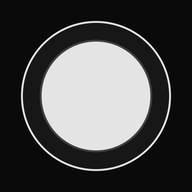
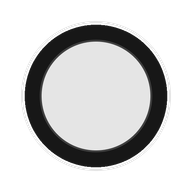
Switch to Host Grotesk, full-width layout, and refine hero
Replace Geist Sans with Host Grotesk (Geist Mono stays for code) and update
the typography section of design.md. Drop the 1288px max-width in favour of a
page-gutter utility so the header, hero, and mosaic span the viewport.

Hero: larger headline, 18px nav, 16px buttons with lucide icons after the
label, right column pinned to the end, and a zoomed, desaturated profile photo
with 3px borders aligned to the headline baseline. Regenerate the favicon and
app icons with a transparent background.

diff --git a/src/components/home/hero.tsx b/src/components/home/hero.tsx
@@ -1,10 +1,11 @@
+import { ArrowRight } from "lucide-react";
 import Image from "next/image";
 import Link from "next/link";
 import { Button } from "@/components/ui/button";
 
 export function Hero() {
   return (
-    <section className="mx-auto w-full max-w-322 px-6 pt-12 lg:pt-16">
+    <section className="page-gutter w-full pt-12 lg:pt-16">
       {/* Same column template as the mosaic so the copy lines up with its third column. */}
       <div className="grid gap-8 lg:grid-cols-[428fr_370fr_423fr] lg:items-end lg:gap-x-3">
         <div className="lg:col-span-2">
@@ -13,38 +14,41 @@ export function Hero() {
             className="inline-flex items-center gap-1.5 rounded-sm bg-surface px-2 py-0.5 text-[11px] font-medium text-text outline-none transition-colors hover:bg-border focus-visible:outline-2 focus-visible:outline-offset-2 focus-visible:outline-text"
           >
             New component
-            <span aria-hidden>→</span>
+            <ArrowRight aria-hidden className="size-3" />
           </Link>
 
-          <h1 className="mt-1.5 text-[2.5rem] leading-[1.05] font-bold text-text sm:text-5xl">
+          <h1 className="mt-1.5 text-[2.75rem] leading-[1.05] font-bold text-text sm:text-[3.5rem]">
             <span className="block">Own every Pixel of</span>
             <span className="block">
               your <span className="text-text-secondary">Design System</span>
-              <span aria-hidden className="ml-4 inline-flex translate-y-1.5 items-center align-middle">
-                <Image
-                  src="/assets/images/profile.webp"
-                  alt=""
-                  width={50}
-                  height={50}
-                  className="relative z-10 size-12.5 rounded-full border-2 border-bg object-cover"
-                />
+              <span aria-hidden className="ml-4 inline-flex">
+                {/* Photo is scaled up around the face (about 38% down) so it fills the circle. */}
+                <span className="relative z-10 size-14 overflow-hidden rounded-full border-3 border-text">
+                  <Image
+                    src="/assets/images/profile.webp"
+                    alt=""
+                    width={112}
+                    height={112}
+                    className="size-full origin-[50%_38%] translate-y-[12%] scale-150 object-cover saturate-20"
+                  />
+                </span>
                 <Image
                   src="/assets/images/claude-ai-icon.webp"
                   alt=""
-                  width={50}
-                  height={50}
-                  className="-ml-6 size-12.5 rounded-full border-2 border-bg object-cover"
+                  width={56}
+                  height={56}
+                  className="-ml-10 size-14 rounded-full border-3 border-text object-cover"
                 />
               </span>
             </span>
           </h1>
         </div>
 
-        <div>
+        <div className="w-full max-w-105 lg:justify-self-end">
           <p className="text-lg leading-snug text-text">
-            Every component ships fully styled. Swap in your own tokens
-            {" { color, type, radius, … } "}
-            and the whole library follows, in minutes, not weeks.
+            Every component ships fully styled. Swap in your own tokens{" "}
+            <span className="whitespace-nowrap">{"{ color, type, radius, … }"}</span> and the whole
+            library follows, in minutes, not weeks.
           </p>
           <div className="mt-6 flex flex-wrap gap-4">
             <Button render={<Link href="/docs" />} nativeButton={false}>

diff --git a/src/components/site-header.tsx b/src/components/site-header.tsx
@@ -1,3 +1,4 @@
+import { Star } from "lucide-react";
 import Image from "next/image";
 import Link from "next/link";
 import { Button } from "@/components/ui/button";
@@ -6,7 +7,7 @@ import { GITHUB_URL, NAV_LINKS } from "@/lib/site";
 export function SiteHeader() {
   return (
     <header className="border-b border-border">
-      <div className="mx-auto grid w-full max-w-322 grid-cols-[1fr_auto] items-center gap-y-3 px-6 py-5 md:h-22 md:grid-cols-[1fr_auto_1fr] md:py-0">
+      <div className="page-gutter grid w-full grid-cols-[1fr_auto] items-center gap-y-3 py-5 lg:h-22 lg:grid-cols-[1fr_auto_1fr] lg:py-0">
         <Link
           href="/"
           aria-label="NSDEV UI home"
@@ -24,9 +25,9 @@ export function SiteHeader() {
 
         <nav
           aria-label="Main"
-          className="order-last col-span-2 -mx-1 overflow-x-auto md:order-0 md:col-span-1 md:mx-0 md:overflow-visible"
+          className="order-last col-span-2 -mx-1 overflow-x-auto lg:order-0 lg:col-span-1 lg:mx-0 lg:overflow-visible"
         >
-          <ul className="flex items-center gap-1 text-[15px] font-medium">
+          <ul className="flex items-center gap-1 text-lg font-medium">
             {NAV_LINKS.map(({ href, label }) => (
               <li key={href}>
                 <Link
@@ -45,10 +46,8 @@ export function SiteHeader() {
           nativeButton={false}
           className="justify-self-end"
         >
-          <svg aria-hidden viewBox="0 0 24 24" className="size-3.5 fill-current">
-            <path d="M12 2.5l2.92 5.92 6.53.95-4.72 4.6 1.11 6.5L12 17.4l-5.84 3.07 1.11-6.5-4.72-4.6 6.53-.95L12 2.5z" />
-          </svg>
           Give us a star
+          <Star aria-hidden className="size-4 fill-current" />
         </Button>
       </div>
     </header>

diff --git a/src/components/home/mosaic.tsx b/src/components/home/mosaic.tsx
@@ -8,24 +8,23 @@ const columns: string[][] = [
 
 export function Mosaic() {
   return (
-    <section
-      aria-hidden
-      className="relative mx-auto mt-12 w-full max-w-322 px-6 lg:mt-14"
-    >
-      <div className="grid grid-cols-1 gap-3 sm:grid-cols-2 lg:grid-cols-[428fr_370fr_423fr]">
-        {columns.map((tiles, i) => (
-          <div key={i} className="contents lg:flex lg:flex-col lg:gap-3">
-            {tiles.map((height, j) => (
-              <div
-                key={j}
-                className={`h-44 rounded-lg border-2 border-border bg-surface sm:h-52 ${height}`}
-              />
-            ))}
-          </div>
-        ))}
+    <section aria-hidden className="page-gutter mt-12 w-full lg:mt-14">
+      <div className="relative">
+        <div className="grid grid-cols-1 gap-3 sm:grid-cols-2 lg:grid-cols-[428fr_370fr_423fr]">
+          {columns.map((tiles, i) => (
+            <div key={i} className="contents lg:flex lg:flex-col lg:gap-3">
+              {tiles.map((height, j) => (
+                <div
+                  key={j}
+                  className={`h-44 rounded-lg border-2 border-border bg-surface sm:h-52 ${height}`}
+                />
+              ))}
+            </div>
+          ))}
+        </div>
+        {/* Fades the last row into the page background. */}
+        <div className="pointer-events-none absolute inset-x-0 bottom-0 h-32 bg-linear-to-t from-bg to-transparent" />
       </div>
-      {/* Fades the last row into the page background. */}
-      <div className="pointer-events-none absolute inset-x-6 bottom-0 h-32 bg-linear-to-t from-bg to-transparent" />
     </section>
   );
 }

diff --git a/src/components/ui/button.tsx b/src/components/ui/button.tsx
@@ -7,8 +7,8 @@ type Variant = "primary" | "secondary";
 // The six states: default (primary), secondary, hover, focus, clicked, disabled.
 // Hover/active are guarded with not-data-[disabled] so a disabled button never reacts.
 const base = [
-  "inline-flex h-8 items-center justify-center gap-2 whitespace-nowrap rounded-md border px-3.5",
-  "text-sm font-semibold select-none cursor-pointer",
+  "inline-flex h-9 items-center justify-center gap-2 whitespace-nowrap rounded-md border px-4",
+  "text-base font-semibold select-none cursor-pointer",
   "transition-[background-color,border-color,color,transform] duration-100",
   "outline-none focus-visible:outline-2 focus-visible:outline-offset-2 focus-visible:outline-text",
   "not-data-[disabled]:active:translate-y-px",

diff --git a/src/app/layout.tsx b/src/app/layout.tsx
@@ -1,9 +1,9 @@
 import type { Metadata, Viewport } from "next";
-import { Geist, Geist_Mono } from "next/font/google";
+import { Geist_Mono, Host_Grotesk } from "next/font/google";
 import "./globals.css";
 
-const geistSans = Geist({
-  variable: "--font-geist-sans",
+const hostGrotesk = Host_Grotesk({
+  variable: "--font-host-grotesk",
   subsets: ["latin"],
 });
 
@@ -32,7 +32,7 @@ export default function RootLayout({ children }: LayoutProps<"/">) {
   return (
     <html
       lang="en"
-      className={`${geistSans.variable} ${geistMono.variable} h-full antialiased`}
+      className={`${hostGrotesk.variable} ${geistMono.variable} h-full antialiased`}
     >
       <body className="min-h-full flex flex-col">{children}</body>
     </html>

diff --git a/src/app/globals.css b/src/app/globals.css
@@ -13,7 +13,7 @@
   --color-warning: #FFB020;
   --color-danger: #FF3355;
 
-  --font-sans: var(--font-geist-sans), -apple-system, 'Segoe UI', sans-serif;
+  --font-sans: var(--font-host-grotesk), system-ui, -apple-system, "Segoe UI", Roboto, sans-serif;
   --font-mono: var(--font-geist-mono), 'SF Mono', Consolas, monospace;
 
   --radius-sm: 4px;
@@ -25,4 +25,10 @@ body {
   background: var(--color-bg);
   color: var(--color-text);
   font-family: var(--font-sans);
+}
+
+/* Full-bleed page gutter: no max-width, so content follows the viewport.
+   100px at xl matches the home page design. */
+@utility page-gutter {
+  @apply px-6 md:px-12 xl:px-25;
 }

diff --git a/design.md b/design.md
@@ -45,12 +45,14 @@ Single dark theme. No light mode yet — that is an open item under Polish.
 
 ## Typography
 
-Geist and Geist Mono only. No third face.
+Host Grotesk and Geist Mono only. No third face.
 
 | Face | Roles |
 |---|---|
-| **Geist Sans** | UI text, headings, body |
+| **Host Grotesk** | UI text, headings, body |
 | **Geist Mono** | Code, Shiki source panels, inline code |
+
+Sans stack: `"Host Grotesk", system-ui, -apple-system, "Segoe UI", Roboto, sans-serif`.
 
 ### Why only two
 
@@ -60,21 +62,17 @@ source at build time, and inline code has to match those panels, so a dedicated 
 is load-bearing rather than decorative. A third face would add weight and a decision point
 with nothing to do.
 
-### Self-hosting
+### Loading
 
-Use the official `geist` npm package (`npm install geist`), not a Google Fonts import — it
-is zero-config with `next/font` and avoids an external request.
+Both faces load through `next/font/google` in `src/app/layout.tsx`. Next downloads them at
+build time and serves them from our own origin, so there is no request to Google at
+runtime.
 
-In `app/layout.tsx`:
+- `Host_Grotesk` exposes `--font-host-grotesk`
+- `Geist_Mono` exposes `--font-geist-mono`
 
-- import `GeistSans` from `geist/font/sans` and `GeistMono` from `geist/font/mono`
-- apply `` `${GeistSans.variable} ${GeistMono.variable}` `` on the `<html>` element
-
-These expose `--font-geist-sans` / `--font-geist-mono`, which `--font-sans` / `--font-mono`
-in the `@theme` block point at.
-
-> Note: `app/layout.tsx` currently still loads Geist via `next/font/google`. Migrating it to
-> the `geist` package is a pending setup step, tracked separately.
+Apply both variables on the `<html>` element. `--font-sans` / `--font-mono` in the `@theme`
+block point at them, with the system fallbacks above.
 
 ---
 
